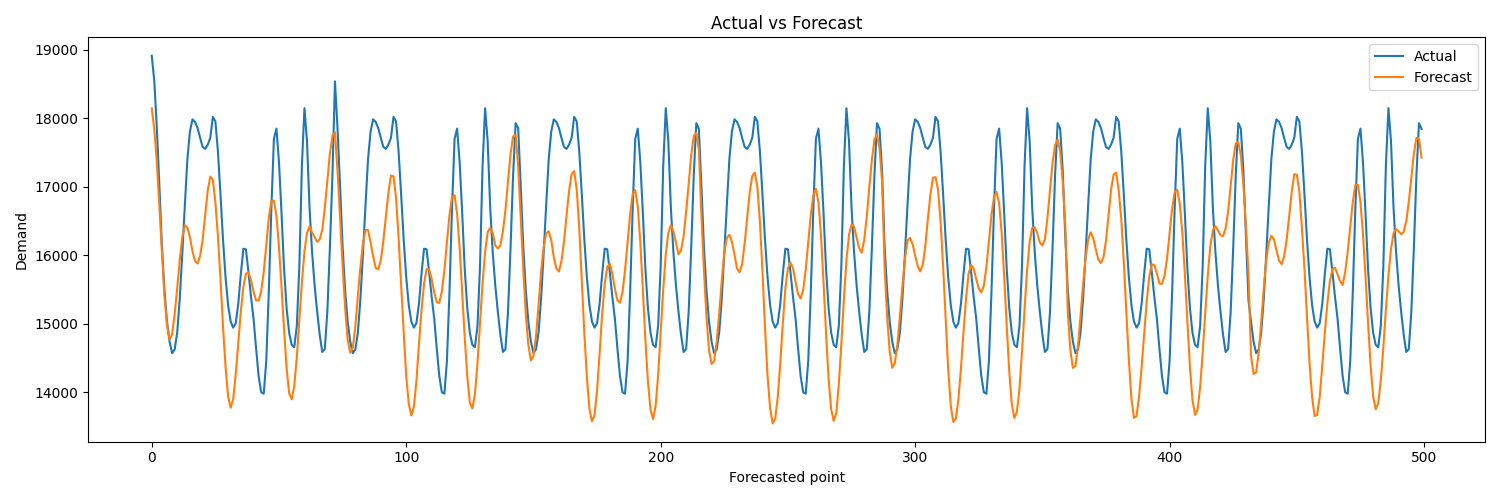
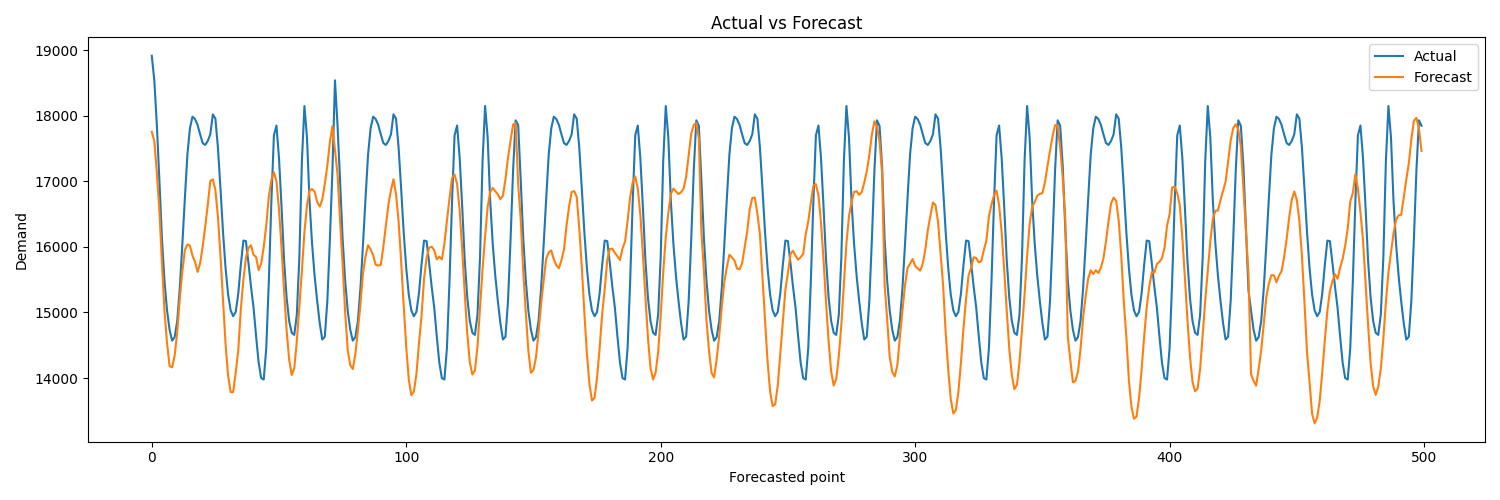
Minor change

diff --git a/src/train_enhanced_lstm.py b/src/train_enhanced_lstm.py
@@ -64,7 +64,7 @@ WINDOW_SIZE = 24*7  # Use past 7 days (168 hours) to predict future demand
 FORECAST_HORIZON = 72
 TRAIN_RATIO = 0.8
 VALIDATION_SPLIT = 0.2
-EPOCHS = 20
+EPOCHS = 30
 BATCH_SIZE = 64
 LSTM_UNITS = 64
 DROPOUT_RATE = 0.2
